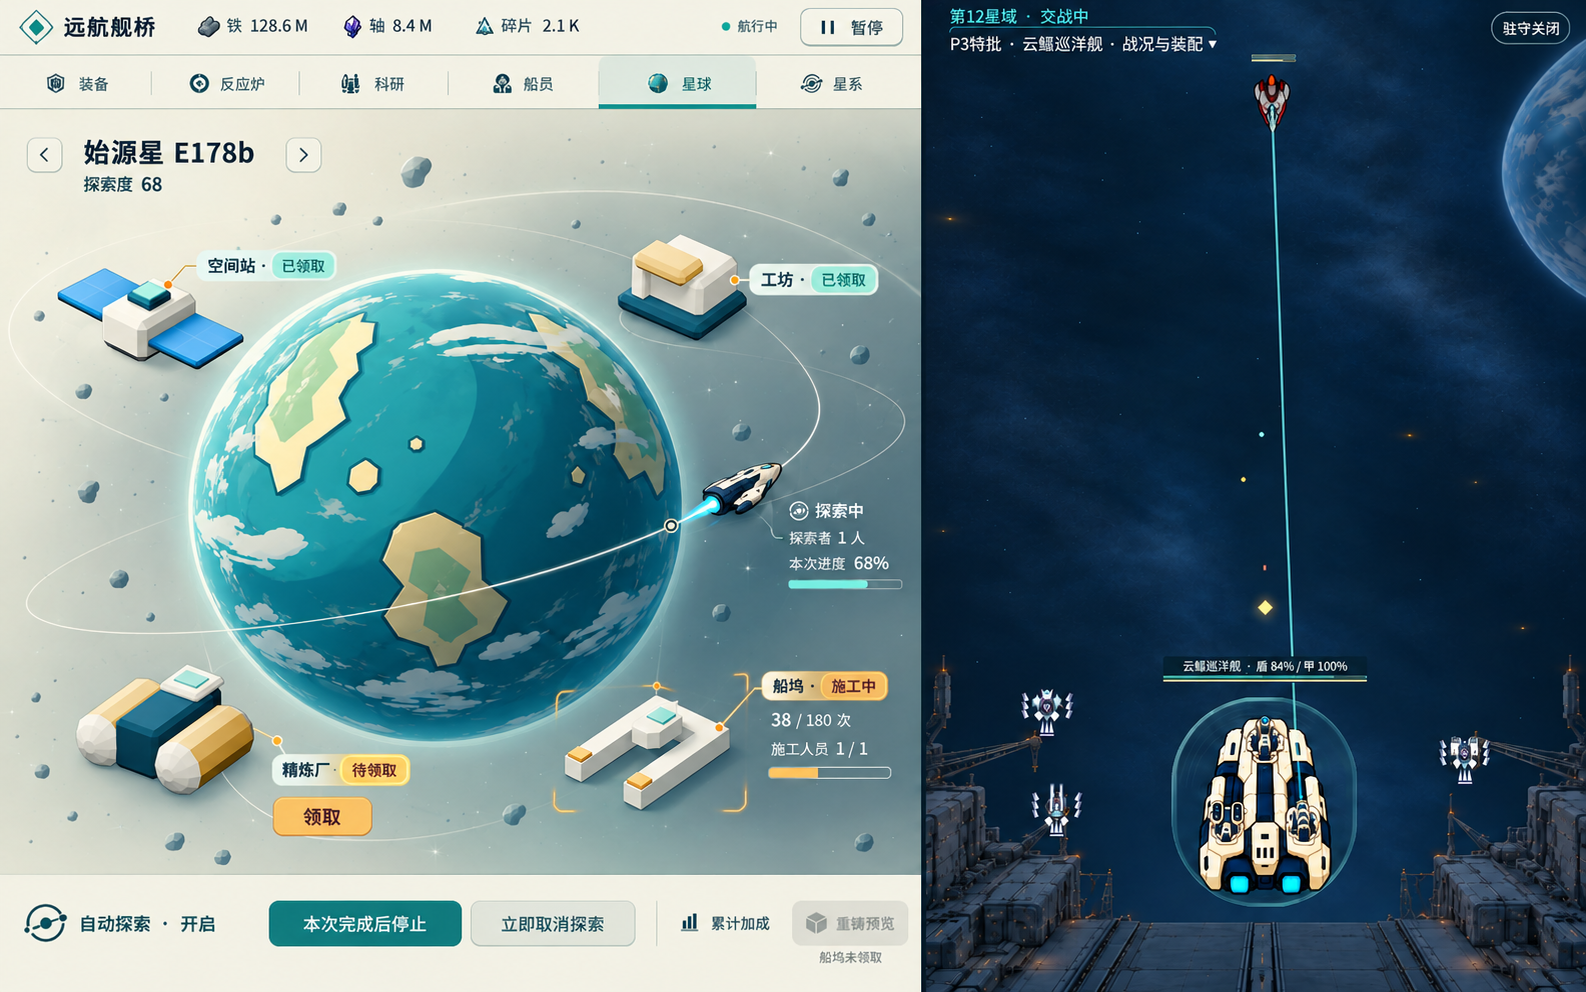
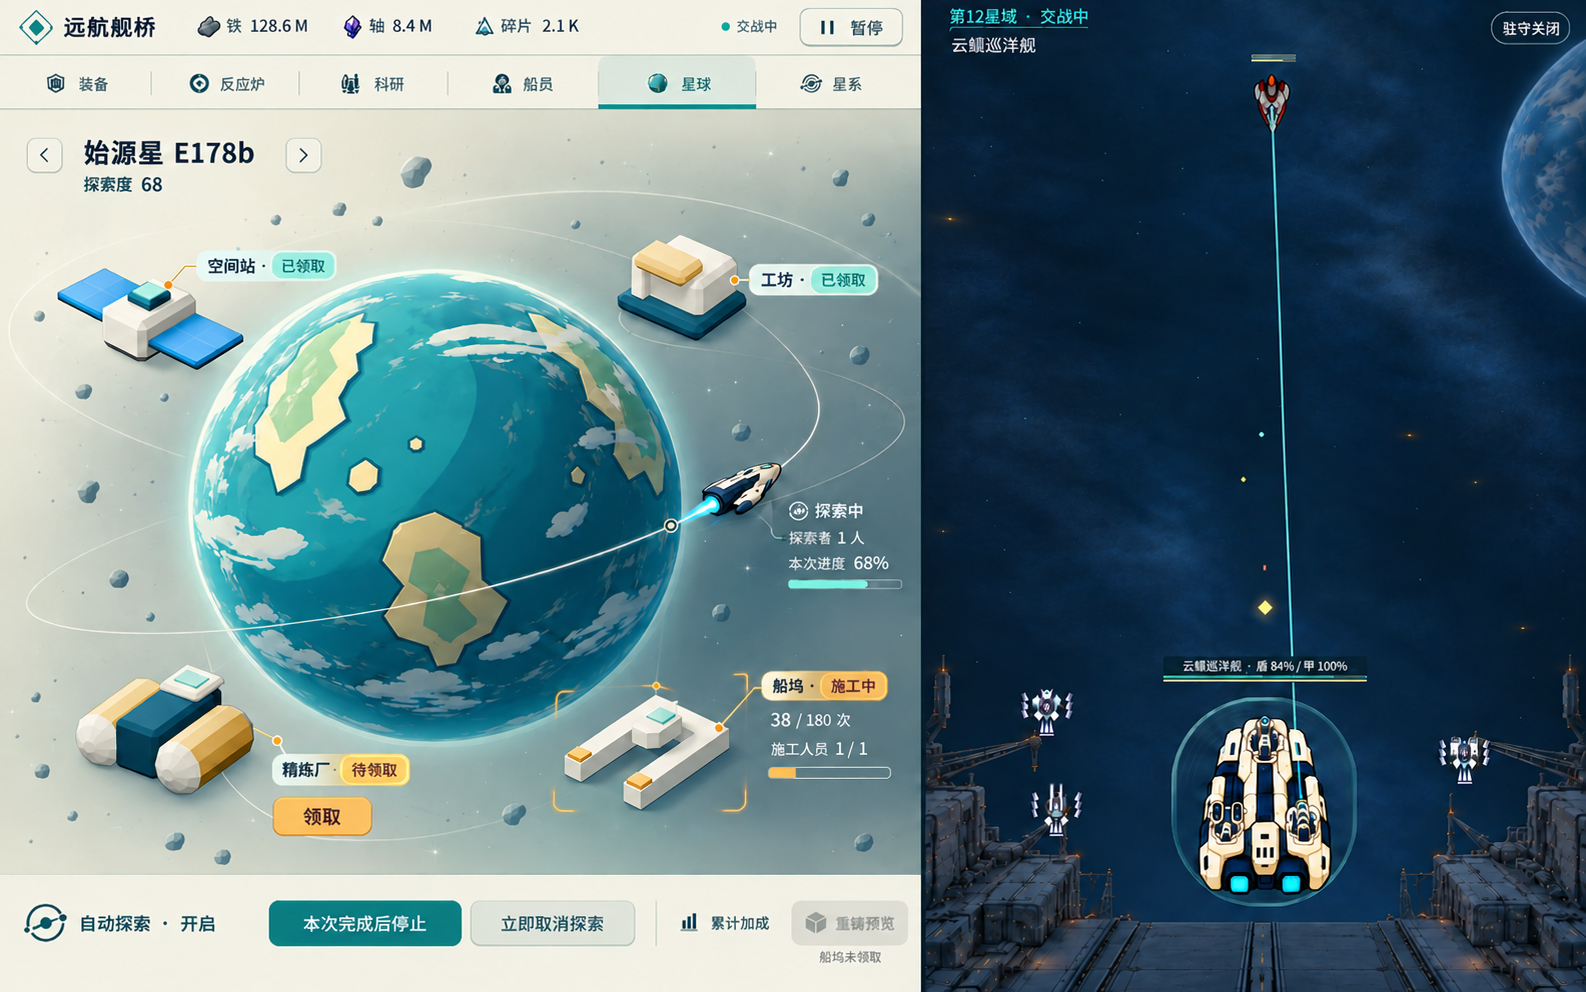
design: correct reviewed planet progress and interface status

diff --git a/space-battleship/docs/ui-redesign-plan/planet-image-v1/design.md b/space-battleship/docs/ui-redesign-plan/planet-image-v1/design.md
@@ -36,12 +36,16 @@
 
 ## 接入与实现门槛
 
-契约定向引用[09af963c星球分册](https://github.com/rlmclmc2-boop/space_idle/blob/09af963c/space-battleship/docs/game-design/contracts/planet.md)和[共同身份/接纳边界](https://github.com/rlmclmc2-boop/space_idle/blob/09af963c/space-battleship/docs/game-design/14-ui-contracts.md)。main已有planet_options/status_rows/building_options/visual_snapshot及set_automatic/claim_build、注入取消/贡献发布口。自动设置automatic为候选增补，不能冒称main已有。facility_facts为§8.3已审待实施读取，施工详细事实、pause_reason及source_factor不得靠前端读取私账或重算规则补齐。派遣沿Crew和Session现有协调链；人员人数使用当帧新读公开事实，不由图中演示值构成新账本。
+契约定向引用[09af963c星球分册](https://github.com/rlmclmc2-boop/space_idle/blob/09af963c/space-battleship/docs/game-design/contracts/planet.md)和[共同身份/接纳边界](https://github.com/rlmclmc2-boop/space_idle/blob/09af963c/space-battleship/docs/game-design/14-ui-contracts.md)。main已有planet_options/status_rows/building_options/visual_snapshot及set_automatic/claim_build、注入取消/贡献发布口。
+
+**09af963c的facility_facts及automatic均为候选已实现、限定审通过、未合main。** 已核对该固定提交的[planet.gd:228–272](https://github.com/rlmclmc2-boop/space_idle/blob/09af963c/space-battleship/src/systems/planet.gd#L228)：visual_snapshot输出automatic；facility_facts输出实际设施状态、施工计数/门槛、当帧人员人数、pause_reason、领取准入及source_factor。09af963c包含91bd955c/372f8499的设施事实实现与窄修订，以及641d46db/4c1de507的自动设置读取与原始证据交付修订；祖先关系与源码均已核对。限定审通过状态采用父线程本轮确认，旧分册“已审待实施”及实现记录中的“待双审”为历史标记，不能据此将已有候选出口误记为未实施，也不能反向宣称main或完整UI已通过。
+
+施工详细事实、pause_reason及source_factor应消费候选公开出口，不得由前端读取私账或重算规则补齐。派遣沿Crew和Session现有协调链；人员人数使用当帧新读公开事实，不由图中演示值构成新账本。只读实现及定向证据见[设施事实记录](https://github.com/rlmclmc2-boop/space_idle/blob/09af963c/space-battleship/docs/verification/colony-readonly-facts-candidate.md)和[自动设置记录](https://github.com/rlmclmc2-boop/space_idle/blob/09af963c/space-battleship/docs/verification/readonly-preview-implementation.md)，不扩大其测试范围。
 
 运行实现前仍需用户确认图稿、结构比例复核及相应只读出口可用性核对。金额/倍率使用Amount文本，不把图中的短数恢复为业务值。图像生成文字是构图标注，正式UI必须用动态文本与真实状态驱动，不能把整张图作为背景烘焙文字上线。
 
 ## 本次自查与独立审查入口
 
-已查看历史实机原图、风格原图、空间站/工坊/精炼厂/船坞模型图标和探索机；修订两轮后纠正设施身份、施工数和停止语义。无代码或规则变更，故未运行游戏测试。
+已查看历史实机原图、风格原图、空间站/工坊/精炼厂/船坞模型图标和探索机；前两轮纠正设施身份、施工数和停止语义。独审实际看图后认可整区场景方向，第三轮按其意见集中将船坞38/180的进度条改为约21%、去掉右侧P3等评审标签、统一全局与战场的“交战中”状态。探索机68%的独立进度条保留；未要求另设计右侧舰船或护盾，右侧继续只作战场背景参照。接口状态同步依据固定源码修正。本轮图像只用imagegen修改，无代码或规则变更，故未运行游戏测试。
 
 待审重点：整片场景是否达到用户所指的模块空间；808px目标下信息/操作净空；球体、设施和探索机的主次；浅暖/深青比例；实际字体和动态对比；原图中部分汉字笔画/精炼厂标签的生成误差。**原图分区偏宽约28目标像素，精确比例未达标。** 战场仅为背景参照，不能宣称原样像素保真或战斗尺度通过。缺人、失败、领取后、详情和重铸确认还没有图像/运行证据；V0/V7不得记通过。独立审核由父线程另配，本线程未新开子任务。

diff --git a/space-battleship/docs/ui-redesign-plan/planet-image-v1/sources.md b/space-battleship/docs/ui-redesign-plan/planet-image-v1/sources.md
@@ -12,6 +12,6 @@
 | 球体 | main e93c2212：assets/planets/toon/origin-surface.svg、origin-clouds.svg；scripts/rotating_planet.gd、rotating_planet.gdshader、planet_visual.gd | 现有矢量纹理与着色器，保留独立云层和星体差异；未制作新SVG |
 | 设施 | main e93c2212：assets/planets/orbital/models/{auto_explore,refinery,equipment,shipyard}-icon.png及相应.glb；说明见[模型README](../../../assets/planets/orbital/models/README.md) | 已查看四图标，修订回现有双横罐和压床轮廓；未修改模型 |
 | 探索机 | main e93c2212：assets/planets/orbital/scout-v1.png；[来源README](../../../assets/planets/orbital/README.md) | 原ImageGen资产，象牙/海军蓝船体、青色引擎；仅参照 |
-| 接口候选 | [feat/amount-safe-previews@09af963c](https://github.com/rlmclmc2-boop/space_idle/blob/09af963c/space-battleship/docs/game-design/contracts/planet.md) | 区分main已有、automatic候选、facility_facts待实施 |
+| 接口候选 | [feat/amount-safe-previews@09af963c源码](https://github.com/rlmclmc2-boop/space_idle/blob/09af963c/space-battleship/src/systems/planet.gd#L228)；91bd955c/372f8499及641d46db/4c1de507均在其祖先中 | facility_facts与automatic候选已实现，父线程确认限定审通过，未合main；不沿用旧文档的待实施/待双审标记，不扩大为UI验收 |
 
-图稿产物来自本线程两次成功的image_gen.imagegen；首次请求因超过5张参照图被参数校验拒绝，未生成图像，随后按工具上限调整为5张。没有授权拒绝或绕过。两次成功请求与原始文件SHA-256见provenance.json。图中的设施是模型身份参照下的生成表达，不声称与原GLB逐像素一致。原始探索/设施图标无需复制，固定main基线可恢复。
+图稿产物来自本线程三次成功的image_gen.imagegen；首次请求因超过5张参照图被参数校验拒绝，未生成图像，随后按工具上限调整为5张。第三次仅按独审意见集中修正进度条、评审标签与状态。没有授权拒绝或绕过。成功请求见generation-requests.json，原始文件SHA-256见provenance.json。图中的设施是模型身份参照下的生成表达，不声称与原GLB逐像素一致。原始探索/设施图标无需复制，固定main基线可恢复。

diff --git a/space-battleship/docs/ui-redesign-plan/planet-image-v1/README.md b/space-battleship/docs/ui-redesign-plan/planet-image-v1/README.md
@@ -14,4 +14,4 @@
 - [来源和历史实机证据](sources.md)
 - [生成请求及文件校验](provenance.json)
 
-尚未通过独立审查或用户确认，不启动实现。本图不是实机证据，也不证明 V0/V7、自然开放流程、动画或操作正确。
+独审已实际看图并认可整区场景方向；按其意见集中修正了船坞进度条、评审标签和全局状态。本轮修订仍待复核与用户确认，不启动实现。本图不是实机证据，也不证明 V0/V7、自然开放流程、动画或操作正确。
